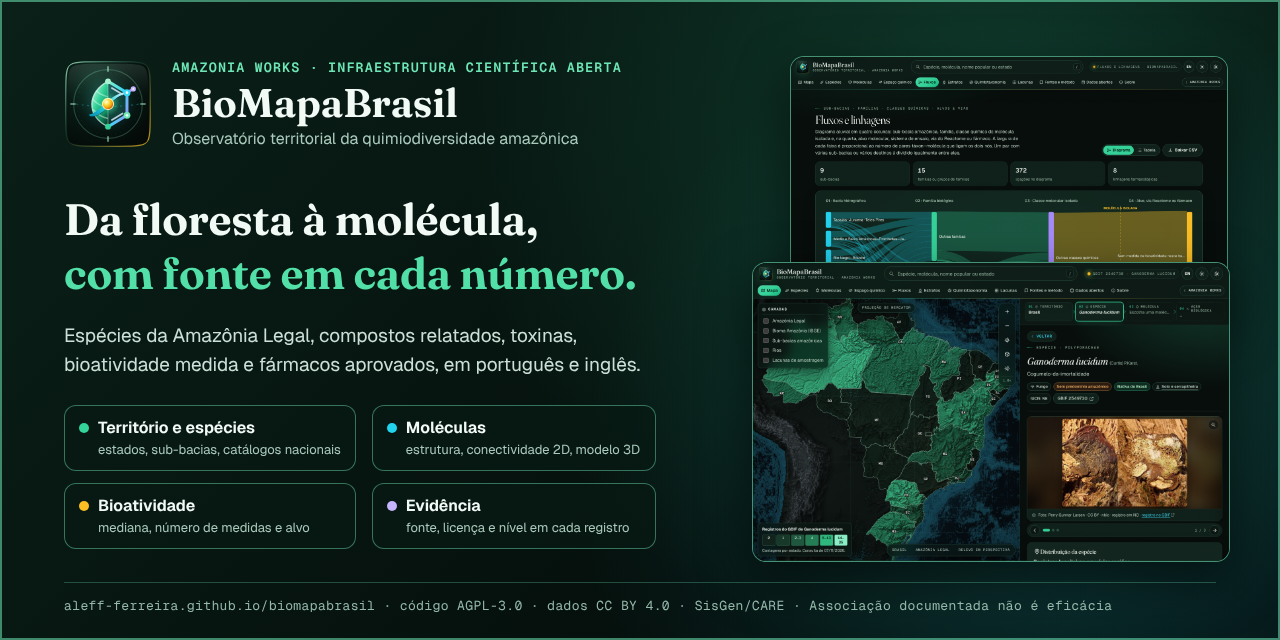
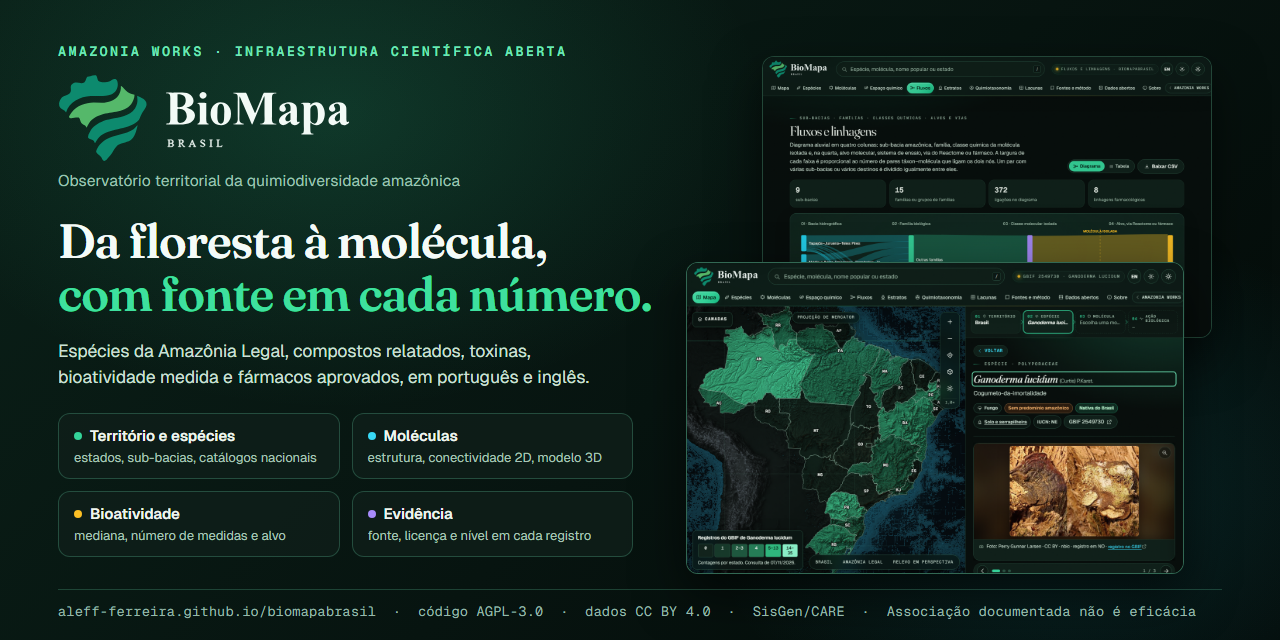
Publica site estático BioMapaBrasil v4.0.1

diff --git a/biomapabrasil/index.html b/biomapabrasil/index.html
@@ -80,53 +80,16 @@
 <div class="cromo-topo">
   <header class="topo">
     <a class="marca" href="#/" aria-label="BioMapaBrasil, início">
-      <svg class="marca-logo" viewBox="0 0 64 64" aria-hidden="true" focusable="false">
-        <defs>
-          <radialGradient id="bmb-bg" cx="36%" cy="26%" r="82%"><stop offset="0%" stop-color="#143b2d"/><stop offset="48%" stop-color="#081913"/><stop offset="100%" stop-color="#040a08"/></radialGradient>
-          <radialGradient id="bmb-aura" cx="50%" cy="50%" r="46%"><stop offset="0%" stop-color="#34d399" stop-opacity=".30"/><stop offset="52%" stop-color="#22d3ee" stop-opacity=".11"/><stop offset="100%" stop-color="#040a08" stop-opacity="0"/></radialGradient>
-          <linearGradient id="bmb-sheen" x1=".5" y1="0" x2=".5" y2=".92"><stop offset="0%" stop-color="#eafff6" stop-opacity=".11"/><stop offset="72%" stop-color="#eafff6" stop-opacity=".02"/><stop offset="100%" stop-color="#eafff6" stop-opacity="0"/></linearGradient>
-          <linearGradient id="bmb-rim" x1="0" y1="0" x2="1" y2="1"><stop offset="0%" stop-color="#a7f3d0" stop-opacity=".85"/><stop offset="45%" stop-color="#1f513e" stop-opacity=".45"/><stop offset="100%" stop-color="#fbbf24" stop-opacity=".80"/></linearGradient>
-          <linearGradient id="bmb-leaf" x1=".18" y1=".08" x2=".82" y2=".95"><stop offset="0%" stop-color="#b2f7dc"/><stop offset="38%" stop-color="#34d399"/><stop offset="78%" stop-color="#10855c"/><stop offset="100%" stop-color="#084c35"/></linearGradient>
-          <linearGradient id="bmb-prism" x1=".2" y1="0" x2=".9" y2="1"><stop offset="0%" stop-color="#38d9f5" stop-opacity=".20"/><stop offset="55%" stop-color="#34d399" stop-opacity=".08"/><stop offset="100%" stop-color="#a78bfa" stop-opacity=".16"/></linearGradient>
-          <linearGradient id="bmb-mol" x1="0" y1="0" x2="1" y2="1"><stop offset="0%" stop-color="#8af0c8"/><stop offset="50%" stop-color="#38d9f5"/><stop offset="100%" stop-color="#a78bfa"/></linearGradient>
-          <linearGradient id="bmb-rio" x1="0" y1="1" x2="1" y2="0"><stop offset="0%" stop-color="#0891b2"/><stop offset="48%" stop-color="#22d3ee"/><stop offset="100%" stop-color="#e0f2fe"/></linearGradient>
-          <radialGradient id="bmb-seed" cx="35%" cy="32%" r="68%"><stop offset="0%" stop-color="#fffef5"/><stop offset="36%" stop-color="#fde047"/><stop offset="76%" stop-color="#f59e0b"/><stop offset="100%" stop-color="#b45309"/></radialGradient>
-          <radialGradient id="bmb-shalo" cx="50%" cy="50%" r="50%"><stop offset="0%" stop-color="#fbbf24" stop-opacity=".82"/><stop offset="52%" stop-color="#34d399" stop-opacity=".32"/><stop offset="100%" stop-color="#34d399" stop-opacity="0"/></radialGradient>
-          <clipPath id="bmb-lclip"><path d="M32 15.5C16.8 23.1 15.8 40.9 32 48.5Z"/></clipPath>
-        </defs>
-        <path d="M32 1.25C50 1.25 57.4 1.25 60.1 3.9C62.75 6.6 62.75 14 62.75 32C62.75 50 62.75 57.4 60.1 60.1C57.4 62.75 50 62.75 32 62.75C14 62.75 6.6 62.75 3.9 60.1C1.25 57.4 1.25 50 1.25 32C1.25 14 1.25 6.6 3.9 3.9C6.6 1.25 14 1.25 32 1.25Z" fill="url(#bmb-bg)" stroke="url(#bmb-rim)" stroke-width=".95"/>
-        <path d="M32 2.8C48.8 2.8 55.9 2.8 58.5 5.5C61.2 8.1 61.2 14.8 61.2 28Q32 22 2.8 28C2.8 14.8 2.8 8.1 5.5 5.5C8.1 2.8 15.2 2.8 32 2.8Z" fill="url(#bmb-sheen)"/>
-        <circle cx="32" cy="32" r="26.5" fill="url(#bmb-aura)"/>
-        <g class="marca-astro">
-          <circle cx="32" cy="32" r="25.0" fill="none" stroke="#8af0c8" stroke-opacity=".24" stroke-width=".8"/>
-          <circle cx="32" cy="32" r="22.6" fill="none" stroke="#38d9f5" stroke-opacity=".10" stroke-width=".55" stroke-dasharray="1.2 2.4"/>
-          <path d="M32 5.0v3.1M32 55.9v3.1M5.0 32h3.1M55.9 32h3.1" stroke="#a7f3d0" stroke-opacity=".65" stroke-width="1.15" stroke-linecap="round"/>
+      <svg class="marca-logo" viewBox="0 0 782 235" aria-hidden="true" focusable="false">
+        <g class="marca-mapa">
+          <path class="marca-faixa-escura" d="M101.5 3.4c5.5 5.4 2.4 15.4 11.1 17.3c6.8 1.6 17.8 2.5 24.3-0.3c5.3-2.2 12.3-10 18.3-6.1c3.9 2.5 4.9 9 4.9 13.2c0.1 11.8-6.3 23.1-17.8 27.2c-17.7 6.5-36.5 3-54.8 4.2c-28.2 1.8-57.6 15.5-66 44.4l-3.5-4.8c-5.8-4.9-12.5-4.8-14.8-14.1l-0.4-5.9c0.7-4.2 4.5-13.7 7.9-16.3c5.8-4.3 13.9-4.7 19.4-9.6c10.2-8.8-1.5-18.2 8.1-26c10.4-8.4 19.9 0.4 30.1-2.9c6-1.9 6.2-11.9 10.2-16.4l7.8-1.6c4.9-1.3 10.1-3.4 15.2-2.3zM99.5 185l-1.2-0.8c-1.5-2.1-1.4-4.6-3.7-6.3c-4.5-3.4-10.1-2.7-14.1-7.4c-0.6-5.7 2.3-11.1 5-16c7.6-14.1 21.5-22.7 35.9-28.6c6.4-2.6 13.4-3.7 20.1-5.2c23.4-5 49.6-6.5 64.6-28c2.7-4 4.3-8.8 5.6-13.4c2-6.9 0.6-13.8 0.2-20.8c3.1 0.9 6 2.6 9 4.1c8.2 4.3 17.9 10.1 16.1 20.9c-1.3 7.9-8.3 14.3-11.7 21.2l-4 8c-1.5 3.2-2.4 7.6-4.8 10.3c-24.7 27.4-72.3 20.3-101.5 41.5c-7.2 5.3-11.1 13-15.5 20.5zM212.5 137.3l0.5 1.2c-2.8 12.6-7.5 31.5-18.9 39c-11.6 7.8-27.6 5.6-37.6 16.6c-4.7 5.2-7.9 11.3-11.7 17.2c-2.8 4.2-5.9 8.1-9.2 11.9c-3.5 4-5.6 8.1-11.1 9.6c-6.4-1.4-5.4-5.8-8.7-10.1c-4-5.4-12-7.4-13.8-14.2c1.7-12.8 16.6-27.3 27.4-33.6c22.5-13.5 51-12 72.9-27.1c4.1-2.8 7-6.8 10.2-10.5z"/>
+          <path class="marca-faixa-clara" d="M168.5 31.4c7.8 4.8 10.9 12 17.7 17c5.4 4 12.5 5.3 18.8 7.1c-0.1 4.9-1.3 9.5-3.1 14c-13.3 34.2-51.1 29.5-80.2 37.8c-15.3 4.4-29.1 11-38.7 24.3c-2.8 3.9-4.3 8.2-6.5 12.5c-1.1-2.1-2.1-4.6-4.1-6.1c-3.4-2.5-7.3-3.3-10-6.9c-3.6-5-2.1-9.6-6.9-14.3c-7.1-1.7-17.9 3.3-23.8 1l-2.7-2.3c1.7-4.8 4.2-8.8 7.3-12.7c14.3-17.9 36.7-26 59.2-26.3l22 0.5c16.9-0.5 34.6-5.7 44.7-20.3c3.8-5.6 5.7-11.4 6.1-18.2c0.2-2.4-0.2-4.7 0.2-7.1z"/>
         </g>
-        <path d="M8.8 32Q32 35.6 55.2 32" fill="none" stroke="#38d9f5" stroke-opacity=".28" stroke-width=".85" stroke-dasharray="1.6 2.4"/>
-        <path d="M32 15.5C16.8 23.1 15.8 40.9 32 48.5Z" fill="url(#bmb-leaf)"/>
-        <path d="M32 26.8C27.4 25.8 23.8 23.4 20.6 19.8M32 34.8C26.4 33.6 22.2 30.6 19.2 26.6M32 42.6C27.6 41.6 24.0 39.2 21.2 36.0" clip-path="url(#bmb-lclip)" fill="none" stroke="#ecfdf5" stroke-opacity=".46" stroke-width="1.0" stroke-linecap="round"/>
-        <path d="M32 15.5C16.8 23.1 15.8 40.9 32 48.5" fill="none" stroke="#ecfdf5" stroke-opacity=".68" stroke-width=".95" stroke-linecap="round"/>
-        <path d="M32 15.5L45.8 23.75V40.25L32 48.5Z" fill="url(#bmb-prism)"/>
-        <line x1="32" y1="15.5" x2="32" y2="48.5" stroke="#a7f3d0" stroke-opacity=".36" stroke-width=".85"/>
-        <path d="M32 15.5L45.8 23.75V40.25L32 48.5" fill="none" stroke="url(#bmb-mol)" stroke-width="2.15" stroke-linecap="round" stroke-linejoin="round"/>
-        <path d="M34.8 20.4L42.6 25.1M42.6 38.9L34.8 43.6" fill="none" stroke="#e0f2fe" stroke-opacity=".80" stroke-width="1.25" stroke-linecap="round"/>
-        <path d="M45.8 23.75L50.1 21.2" fill="none" stroke="#a78bfa" stroke-width="1.8" stroke-linecap="round"/>
-        <path d="M18.6 39.5C22.6 39.1 26.0 35.1 30.7 30.9C35.3 26.6 40.2 23.5 45.8 23.0L45.8 24.55C40.8 25.2 36.7 28.1 33.0 33.0C28.6 37.8 23.8 41.2 19.3 40.95C18.5 40.9 18.1 39.9 18.6 39.5Z" fill="#042f2e" fill-opacity=".55" transform="translate(0 .7)"/>
-        <path d="M18.6 39.5C22.6 39.1 26.0 35.1 30.7 30.9C35.3 26.6 40.2 23.5 45.8 23.0L45.8 24.55C40.8 25.2 36.7 28.1 33.0 33.0C28.6 37.8 23.8 41.2 19.3 40.95C18.5 40.9 18.1 39.9 18.6 39.5Z" fill="url(#bmb-rio)"/>
-        <circle cx="32" cy="15.5" r="2.1" fill="#a7f3d0"/>
-        <circle cx="45.8" cy="23.75" r="2.55" fill="#38d9f5"/><circle cx="45.8" cy="23.75" r="1.0" fill="#f0fdfa"/>
-        <circle cx="50.4" cy="21.0" r="1.9" fill="#c4b5fd"/><circle cx="50.4" cy="21.0" r=".7" fill="#f5f3ff"/>
-        <circle cx="45.8" cy="40.25" r="2.45" fill="#6ee7b7"/><circle cx="45.8" cy="40.25" r=".95" fill="#ecfdf5"/>
-        <circle cx="32" cy="48.5" r="2.1" fill="#34d399"/>
-        <g class="marca-nucleo">
-          <circle cx="32" cy="32" r="8.6" fill="url(#bmb-shalo)"/>
-          <circle cx="32" cy="32" r="4.1" fill="url(#bmb-seed)" stroke="#fef9c3" stroke-opacity=".88" stroke-width=".75"/>
+        <g class="marca-palavra" fill-rule="evenodd">
+          <path class="marca-biomapa" d="M387.5 48c5.5 0.1 9.7 2.9 10.5 8.5c-0.3 5.7-3.9 8.9-9.5 9.5c-5.2-0.3-8.8-3.2-9.6-8.5c0.2-5.3 3.5-8.6 8.6-9.5zM343.8 90.5c6.3 1.9 13.1 3.5 17.8 8.4c9.7 9.9 5 24.8-6.2 31.1c-12.8 7.2-31.6 5-45.9 5c-5.9 0-15.3 1-20.7-0.5l0.8-1.3c3.2-1.5 7.2 0.8 9.9-4.2c1.8-3.3 1.1-14.5 1.1-18.5v-38c0-3.9 0.6-13.2-1.1-16.6c-2.4-4.8-6.9-2.7-9.9-4.1l-0.8-1.3c5.3-1.5 13-0.5 18.7-0.5c10.7 0 33.1-1.6 42.3 2.6c11.7 5.3 18.1 19.7 8.6 30.2c-3.9 4.2-9.6 5.5-14.6 7.7zM503.5 50c3.4 5.1 5.4 11.7 7.7 17.3l16.3 38c3.2-3.9 4.7-9.9 6.7-14.6l10.5-25.4c2-5.1 3.7-10.9 6.8-15.3h25l7.9 0.2l0.8 1.3c-3.7 1-8.7 0.1-10.8 4.4c-2.1 4.4-1.2 14.5-1.2 19.6v35c0 5.3-0.9 13 0.9 18c1.1 2.9 4.5 4.4 7.4 4.5l2.9 0.2l0.8 1.3c-3.7 1-7.9 0.5-11.7 0.5h-21l-10.8-0.2l-0.7-1.3c3.8-0.8 8.7-0.1 10.9-4.2c2.2-4.1 1.1-14.8 1.1-19.8v-33c0-5.8 0.9-12.3-0.5-17.9l-22.3 53.1l-9.4 22.6l-1.3 0.7c-2.1-3-3.4-6.8-4.8-10.3l-6-13.9l-22.2-51.2c-1.3 5.3-0.5 11.5-0.5 16.9v31c0 5.3-1 15.4 1 19.9c1.3 3.1 4.3 4.9 7.5 5.4l2.9 0.4l0.8 1.3c-5.4 1.5-14.8 0.5-20.7 0.5l-7.7-0.3l-0.5-1.2c3.7-0.8 7.8-1.1 10.2-4.5c2.8-4.2 1.8-10.7 1.8-15.5v-37c0-4.1 0.7-17.4-0.9-20.4c-2.2-4.3-7.2-3.7-11.1-4.6l0.5-1.2l8.7-0.3h25zM320.1 54.5v34c12.5 2.5 22.2-5.3 21.9-18c-0.1-4.6-1.5-8.9-4.9-12.1c-2.4-2.3-5.2-3-8.3-3.8c-2.9-0.8-5.8-0.7-8.7-0.1zM434.5 76c14.9 0 24.7 8.4 28.2 22.7l0.7 7.8l-0.7 7.9c-2.6 12.6-12.1 22-25.2 22.6c-17.2 0-27.3-10.7-28.7-27.5c0-3.3-0.2-6.6 0.5-9.9c2.5-12.7 11.9-23 25.2-23.6zM642.5 129c2.9-0.8 2.2-1.3 5.3-0.5c-1.7 2.2-3.5 4.4-5.8 6c-4.8 3.4-13 3.8-17-1.1c-1.4-1.7-1.9-3.8-2.5-5.9c-5.5 3.4-10.1 8.5-17 9.4c-11.3 1.4-17.2-10-11.4-19.3c4.3-6.9 13.3-11.1 20.4-14.5c2.8-1.3 6-2.4 8.1-4.6c0-4.3 1-10.7-1.1-14.6c-3.1-5.8-12.6-4.9-15.3 0.6c1.6 4 5.5 7 3.6 11.8c-3 7.7-16.3 5.2-16.8-2.8c-0.8-15.1 25.4-20.6 36-16c10.4 4.6 11 11.6 11 22v15c0 3.1-0.9 11.4 1.1 13.7l1.4 0.8zM676.5 130.1c-1.6 6-0.6 13.2-0.6 19.4c0 2.8-0.3 6.2 1.6 8.5c1.9 2.3 4.6 1 6.7 2.3l0.5 1.2c-5.1 1.1-10.9 0.5-16.2 0.5c-5.7 0-11.9 0.7-17.4-0.5l0.6-1.3c2.2-1.3 4.9-1 5.9-4c1.8-5.3 0.7-15.8 0.7-21.7v-37c0-4.3 0.9-12.1-1.3-15.8c-1.3-2.2-3.4-1.8-5.3-2.9l-0.6-1.3c5.4-1.1 19.4-1.1 24.8 0c0 2.2 0 4.1 0.6 6.2c8.9-12 26-9.3 33.1 3.1c6.3 11 6.7 26.8 0.8 38.1c-7.3 13.9-22.7 16-33.9 5.2zM773.8 128.5c2.1 0.5 3.1 0 4.9-1l1 1.1c0.7 3.4-9.4 8.3-12.2 8.4c-4.4 0.2-8.7-1-10.9-5.1l-2.1-4.4c-5 4-10.3 8.9-17 9.5c-10.8 0.8-16.1-9.3-11.5-18.4c4.7-9.3 19.6-14.8 28.5-19.2c0.9-3.3 1.3-12-0.2-15.1c-3-6.1-11.4-5.1-15.3-0.8c0.1 5.2 6.1 8.1 2.8 13.8c-4.5 7.6-17.2 2.8-16.1-5.8c0.7-6.2 6.3-10.4 11.7-12.7c10.6-4.4 27.3-5 33.5 6.8c1.3 2.5 1.2 5.2 1.4 7.9l0.1 23c0 4.2-0.4 8.2 1.4 12zM397.1 77.5v33c0 6.6-0.7 13.6 1.2 20c1.9 1.7 4.7 2 5.9 4c-3.9 1.1-8.6 0.5-12.7 0.5c-6.1 0-13.1 0.9-18.9-0.5c1.5-2 4.6-2 5.9-4.4c2-3.4 1.3-8.9 1.3-12.6v-21c0-4.5 0.5-9.6-1-13.9c-1-2.9-4.6-2.9-6.2-5.1c4-1 20.6-1.1 24.5 0zM427 102.5c0 8.2-2.6 28.6 8.5 30.5c10.4-0.6 9.1-14 9.5-21.5c0-8.2 2.9-29.9-8.5-31.5c-10.4 0.7-9.2 14.9-9.5 22.5zM675.9 93.5v22l0.2 9.9c1.6 4.3 7.2 7.3 11.4 7.6c8-1.4 8.2-13.1 8.5-19.5c0-8.1 1.7-28.8-9.5-30.5c-5.6 0.4-9.7 5.1-10.6 10.5zM320.1 93.5v26c0 5.7-0.6 10.7 6.4 11.5c10.2-0.1 17-6.5 18.4-16.5c0-14.3-7.3-21.1-21.4-21.5l-3.4 0.5zM622.6 122.5l-0.1-18.1l-1.5 0.1c-5.6 2.4-13 10.7-12 17c1.3 8 9.9 6 13.6 1zM754.6 123.5c0.8-4.1 1.1-15.6-0.1-19.5c-5.6 3-11.9 8.1-13.1 14.8c-0.8 4.6 3.2 9.2 8 8c2-0.5 3.6-2.1 5.2-3.3z"/>
+          <path class="marca-brasil" d="M294.5 176l10 0.1c3.4 0.7 5.9 4 4.2 7.4l-1.2 1.4l-0.9 0.6l0.9 0.5c4 2.6 3.3 6.9-1 8.6c-2.4 0.9-9.1 0.4-12 0.4l-1-0.5l1-0.5l1.1-0.5c1-2.5 0.5-8.1 0.5-11c0-1.7 0.2-3.4-0.5-5l-1.1-0.5l-1-0.5l1-0.5zM332.5 185.5v1c1.2 1.7 3.5 5.3 5 6.4l3 1.6l-1 0.5c-1.3 0-2.7 0.1-4-0.1c-2.1-2.7-4.2-5.6-6-8.5l-1-0.4l-1 0.3l-0.2 0.2v6l0.5 1c0.6 0.2 1.2 0.3 1.7 0.5l0.5 0.5l-0.5 0.5h-7l-0.5-0.5l0.5-0.5c0.5-0.2 1-0.3 1.6-0.5l0.5-1c0.3-2.3 0.1-4.7 0.1-7c0-2.3 0.2-4.7-0.1-7l-0.5-1c-0.5-0.2-1.1-0.3-1.6-0.5l-0.5-0.5l0.5-0.5h4c2.8 0 5.4-0.4 8 1.1c2.3 1.2 2.2 4.4 1.1 6.4c-0.7 1.1-2 1.5-3.1 2zM359.5 176.4l1 0.6c0.7 0.7 2.3 5.4 2.7 6.5l1.5 3c0.8 2 1.6 4 2.5 6l1 1l1.6 1l-0.3 0.3c-1.9 0.5-4 0.2-6 0.2l-1-0.5l1.5-1l0.1-1c-0.2-1-0.7-2.1-1.2-3l-0.4-0.4c-2.2-0.2-4.8-0.3-7 0.1c-0.6 1.1-1.3 2.1-1.6 3.3l0.2 1c0.4 0.2 0.9 0.4 1.4 0.6l0.4 0.4l-0.4 0.4c-0.8 0.3-4.2 0.3-5 0.1l-0.5-0.5c2.5-1.8 3-3.2 4.1-6l5.4-12.1zM390.5 176.9c0.7 0 1.5-0.2 2.1-0.4c0.2 1.3 0.2 2.6 0.1 4l-0.2 1l-0.3-1c-2.3-2.8-2.7-3.9-6.7-3.3l-1.3 1.3l-0.3 1v1l0.6 1l3 2.1c1.9 0.9 5.6 2.7 6.2 4.9c1.6 5.3-5 8.1-9.2 5.6c-1.3-0.1-0.7-0.1-2 0.2l-0.6-0.8c0-1.3 0.1-2.1 0.6-3.2c1 2.3 1.2 1.7 2.8 3.2l0.2 0.4h4l1.5-1.4l0.4-1v-1c-1.8-4-7.9-4.1-9.5-8c-1-2.6 0.4-4.8 2.6-5.9l1-0.6c1.8-0.5 3.5 0.2 5 0.9zM406.5 176h6c0.4 0 0.8 0.3 1.3 0.5c-0.7 0.3-1.6 0.7-2.3 1l-0.5 1v14l0.6 1c0.7 0.3 1.5 0.7 2.2 1c-0.5 0.2-0.9 0.5-1.3 0.5h-6l-0.8-0.5l0.8-0.5c0.5-0.1 0.9-0.3 1.3-0.5c0.9-2.6 0.4-8.1 0.4-11c0-1.7 0.3-3.4-0.4-5c-0.4-0.2-0.8-0.4-1.3-0.5l-0.8-0.5l0.8-0.5zM425.5 176h7l0.5 0.5l-0.5 0.5c-1.3 0.4-0.7-0.1-2 0.6c-0.8 1.5-0.6 3.2-0.6 4.9c0 2.7-0.5 8.7 0.5 11c1.7 0.6 4.3 0.7 6.1 0.2l2-1.2l1-1.2l0.2 0.2l0.1 1l-0.7 2l-0.6 0.5h-13l-1-0.5l1-0.5c0.4-0.1 0.8-0.3 1.2-0.5c0.6-1.6 0.4-3.3 0.4-5c0-2.7 0.4-8.7-0.3-11c-0.5-0.2-0.9-0.4-1.3-0.5l-1-0.5l1-0.5zM298.9 177.5v7l0.6 0.4l2 0.1c2.1 0 2.5-0.2 4.2-1.5c1.6-3.7-0.3-6.4-4.2-6.5l-2 0.1l-0.6 0.4zM327.5 177.3c-0.3 1.4-0.5 5.7-0.2 7.2l0.2 0.2c4.2 1 6.8-2.2 5.2-6.2c-1.8-1.5-2.9-1.8-5.2-1.2zM359.5 181.3l-1 0.5l-2.4 5.7l0.4 0.4h5l0.5-0.4l-2.5-6.2zM298.9 186.5c0 2.3-0.2 4.7 0.2 7l0.4 0.4c1.3 0.4 3.7 0.2 5-0.2l1-0.7c3.5-2.6 0.5-6.8-3-7l-3 0.1l-0.6 0.4z"/>
         </g>
       </svg>
-      <span class="marca-texto">
-        <strong>BioMapaBrasil</strong>
-        <small>Observatório Territorial · Amazonia Works</small>
-      </span>
     </a>
 
     <div class="busca" role="search">

diff --git a/biomapabrasil/css/app.css b/biomapabrasil/css/app.css
@@ -108,6 +108,9 @@
   --topo-bg: #efeae0;
   --topo-ink: #0b1f18;
   --topo-ink2: #3f574c;
+  --logo-verde-escuro: #08775e;
+  --logo-verde-claro: #55b86a;
+  --logo-tinta: #102d38;
   --e0: #e2dfd3;
   --e1: #c5e0ce;
   --e2: #8bc4a0;
@@ -174,6 +177,9 @@
     --topo-bg: #070d0b;
     --topo-ink: #eef5ee;
     --topo-ink2: #95b2a0;
+    --logo-verde-escuro: #0d8a6e;
+    --logo-verde-claro: #55b86a;
+    --logo-tinta: #edf5f2;
     --e0: #11221b;
     --e1: #163829;
     --e2: #1d573d;
@@ -231,6 +237,9 @@
   --topo-bg: #070d0b;
   --topo-ink: #eef5ee;
   --topo-ink2: #95b2a0;
+  --logo-verde-escuro: #0d8a6e;
+  --logo-verde-claro: #55b86a;
+  --logo-tinta: #edf5f2;
   --e0: #11221b;
   --e1: #163829;
   --e2: #1d573d;
@@ -471,7 +480,7 @@ kbd {
   grid-template-columns: auto minmax(0, 1fr) auto;
   gap: 0.75rem 1.25rem;
   align-items: center;
-  padding: 0.58rem 1.15rem 0.5rem;
+  padding: 0.46rem 1.15rem 0.42rem;
   max-width: 120rem;
   margin: 0 auto;
 }
@@ -486,23 +495,55 @@ kbd {
 }
 .marca:hover { color: var(--topo-ink); }
 .marca-logo {
-  width: 2.58rem;
-  height: 2.58rem;
+  height: 3.1rem;
+  width: auto;
+  aspect-ratio: 782 / 235;
+  display: block;
   flex: none;
-  filter: drop-shadow(0 4px 14px var(--brilho-verde));
-  transition: transform 0.45s var(--ease-out), filter 0.45s var(--ease-out);
+  overflow: visible;
+  transition: transform 0.35s var(--ease-out), filter 0.35s var(--ease-out);
 }
-.marca-logo .marca-astro,
-.marca-logo .marca-nucleo {
-  transform-origin: 32px 32px;
-  transition: transform 0.65s var(--ease-out);
+.marca-logo .marca-faixa-escura,
+.marca-emblema .marca-faixa-escura {
+  fill: var(--logo-verde-escuro);
+  transition: fill 0.25s var(--ease);
+}
+.marca-logo .marca-faixa-clara,
+.marca-emblema .marca-faixa-clara {
+  fill: var(--logo-verde-claro);
+  transition: filter 0.3s var(--ease);
+}
+.marca-logo .marca-biomapa {
+  fill: var(--logo-tinta);
+  transition: fill 0.25s var(--ease);
+}
+.marca-logo .marca-brasil {
+  fill: var(--logo-tinta);
+  stroke: var(--logo-tinta);
+  stroke-width: 1.35;
+  stroke-linejoin: round;
+  paint-order: stroke fill;
+  transition: fill 0.25s var(--ease), stroke 0.25s var(--ease);
 }
 .marca:hover .marca-logo {
-  transform: translateY(-1px) scale(1.045);
-  filter: drop-shadow(0 6px 18px var(--brilho-verde)) drop-shadow(0 0 10px var(--brilho-ouro));
+  transform: translateY(-1px);
 }
-.marca:hover .marca-logo .marca-astro { transform: rotate(18deg); }
-.marca:hover .marca-logo .marca-nucleo { transform: scale(1.12); }
+.marca:hover .marca-logo .marca-faixa-clara {
+  filter: brightness(1.07);
+}
+:root[data-tema="escuro"] .marca:hover .marca-logo {
+  filter: drop-shadow(0 4px 14px var(--brilho-verde));
+}
+@media (prefers-color-scheme: dark) {
+  :root:not([data-tema="claro"]) .marca:hover .marca-logo {
+    filter: drop-shadow(0 4px 14px var(--brilho-verde));
+  }
+}
+.marca-emblema {
+  width: 2.05rem;
+  height: 2.05rem;
+  flex: none;
+}
 
 .marca-texto { display: flex; flex-direction: column; line-height: 1.08; gap: 0.14rem; }
 .marca-texto strong {
@@ -2669,12 +2710,14 @@ table.tabela {
   }
   .mapa-presets { bottom: 0.75rem; }
   .painel-corpo { overflow: visible; }
-  .topo { grid-template-columns: 1fr auto; padding: 0.55rem 0.9rem 0.45rem; }
+  .topo { grid-template-columns: 1fr auto; padding: 0.45rem 0.9rem 0.4rem; }
   .busca { grid-column: 1 / -1; grid-row: 2; max-width: none; }
+  .marca-logo { height: 2.65rem; }
   .marca-texto small { display: none; }
   .menu { padding: 0.25rem 0.9rem 0.45rem; }
 }
 @media (max-width: 36rem) {
+  .marca-logo { height: 2.3rem; }
   .mapa-camadas { max-width: 12.5rem; }
   .mapa-camadas label { font-size: 0.82rem; }
   .mapa-presets { display: none; }

diff --git a/biomapabrasil/sw.js b/biomapabrasil/sw.js
@@ -3,7 +3,7 @@
 // também. Estratégia pensada para 400 kbps: dados JSON "usa o cache e atualiza em segundo plano";
 // imagens, estruturas e fontes "cache primeiro". Os índices de topo e o dicionário de tradução sempre tentam a rede antes
 // (versão nova dos dados).
-const VERSAO = 'bmb-v20';
+const VERSAO = 'bmb-v21';
 const ESQUELETO = [
   './', 'index.html', 'css/app.css', 'manifest.webmanifest', 'icones/icone.svg',
   'js/main.js', 'js/util.js', 'js/dados.js', 'js/mapa.js', 'js/busca.js', 'js/constelacao.js', 'js/perfis.js',
